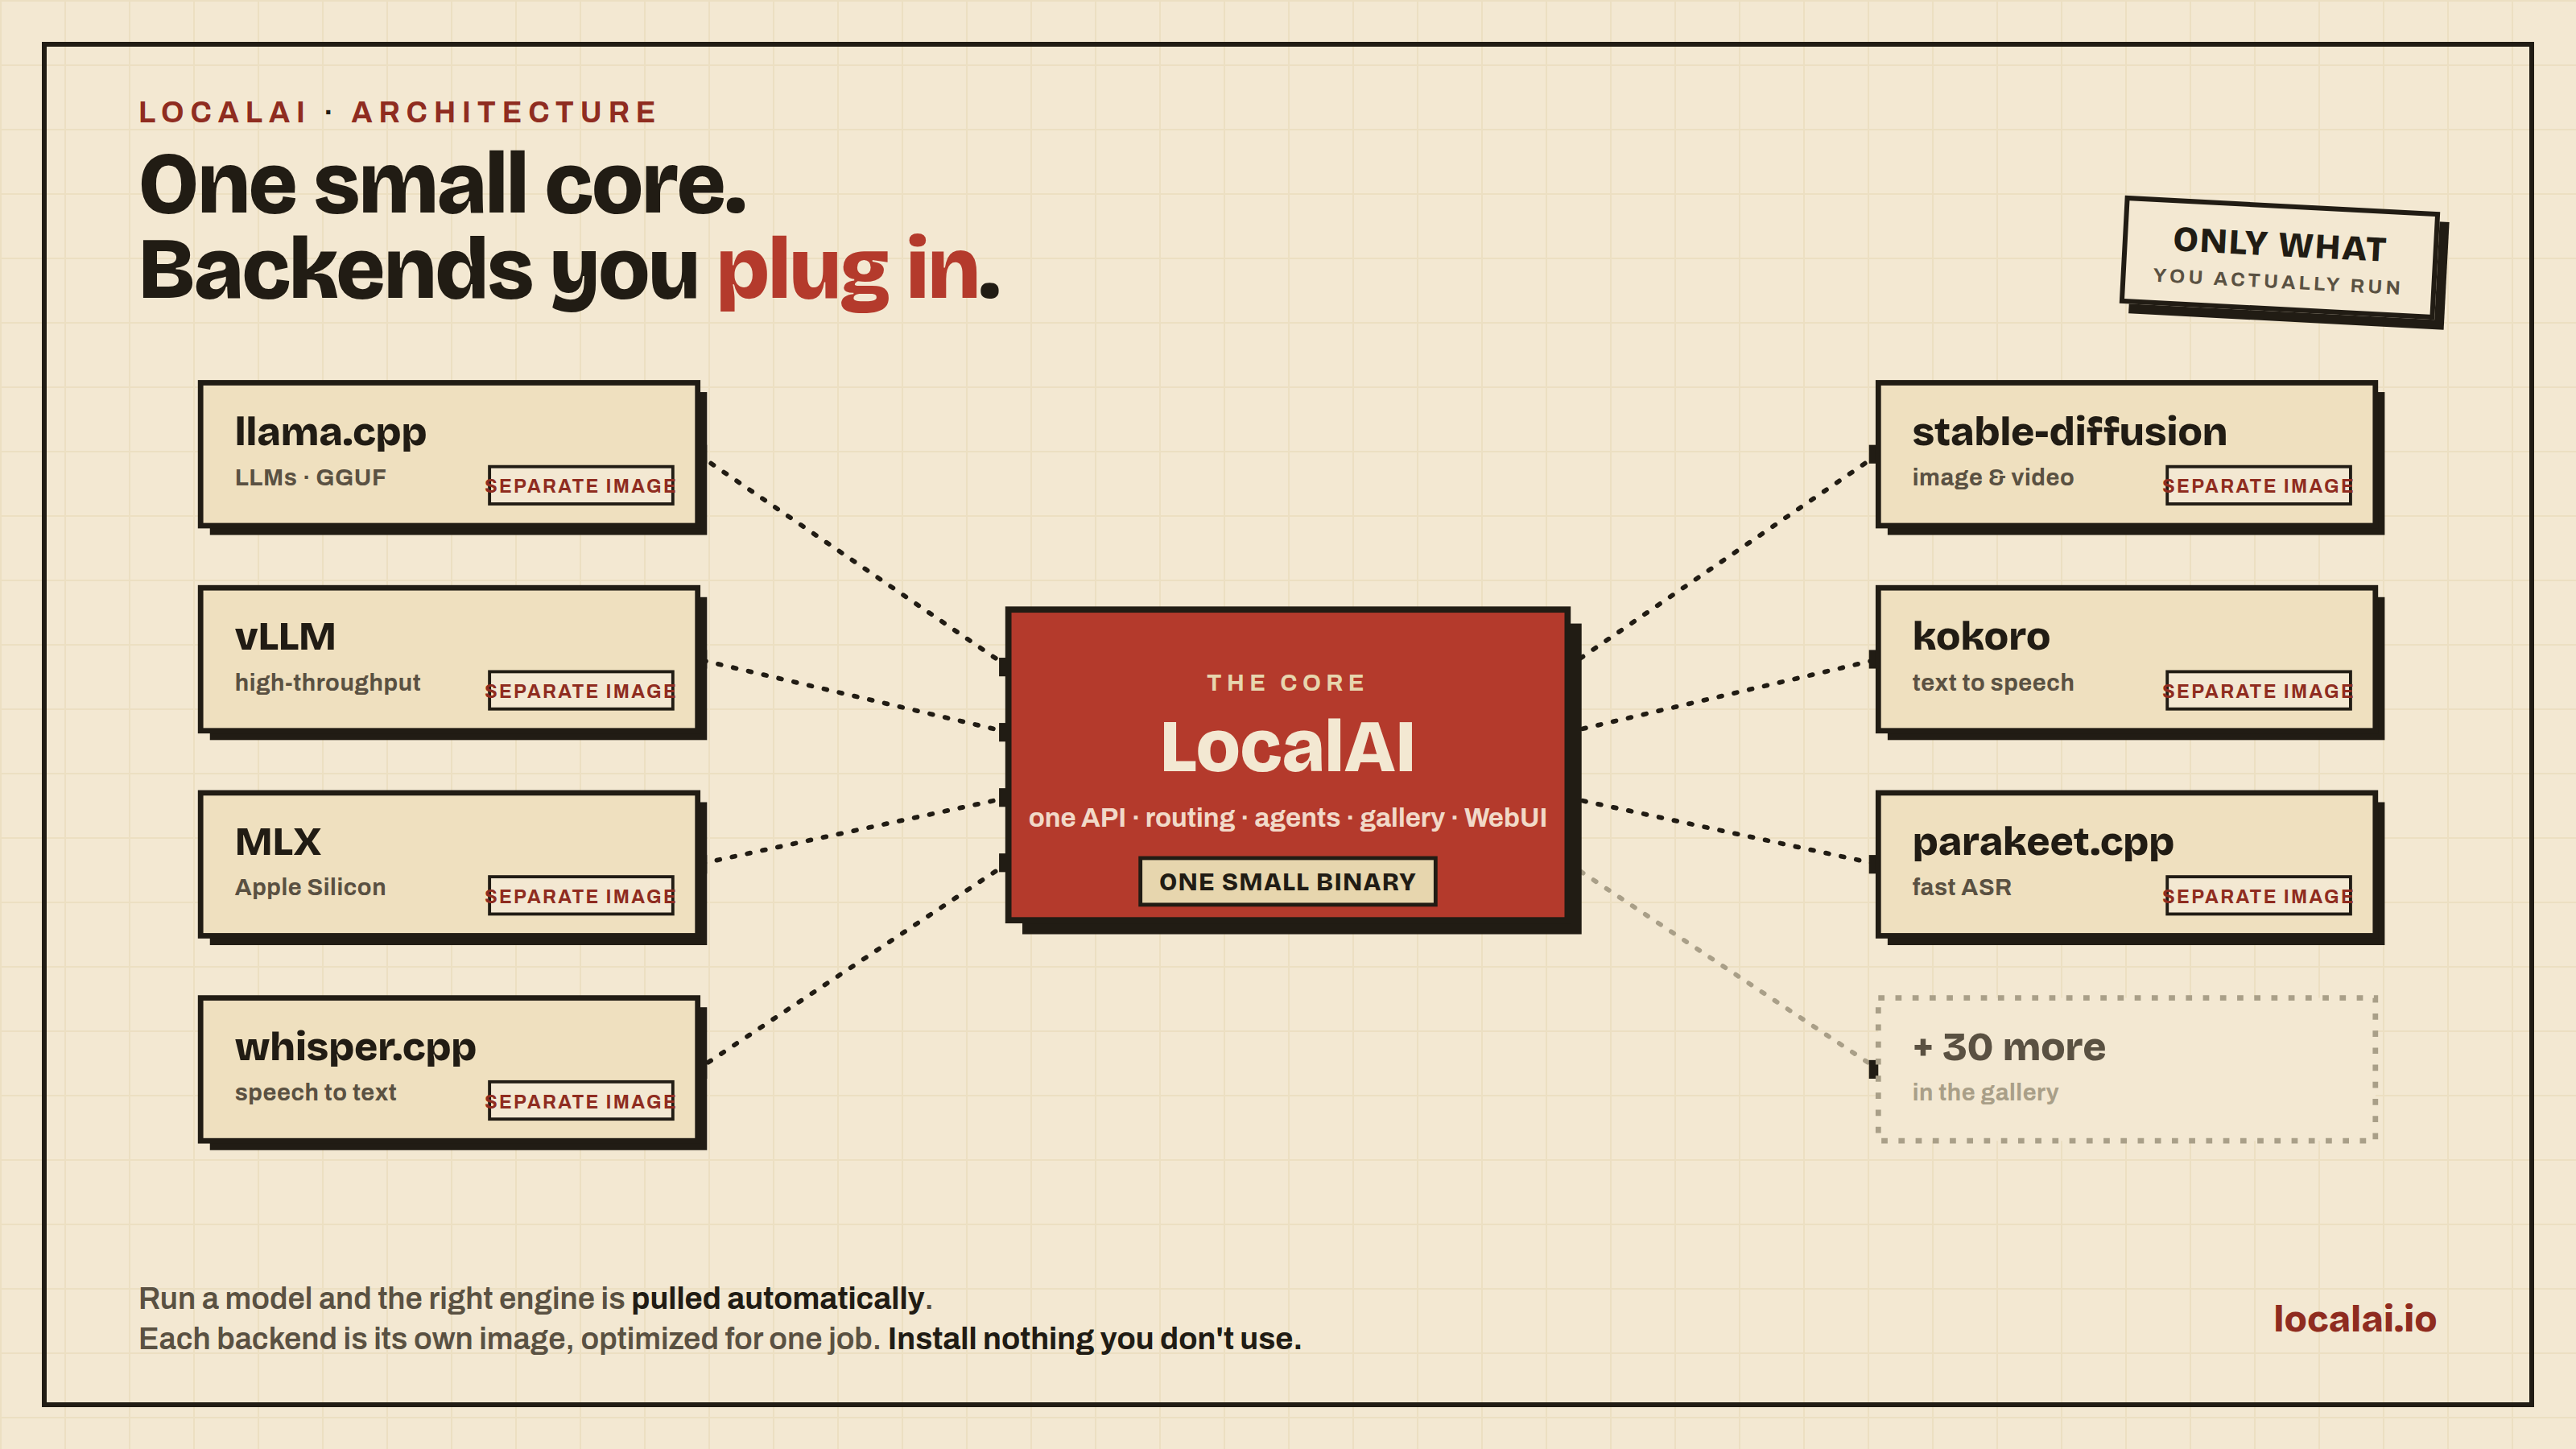
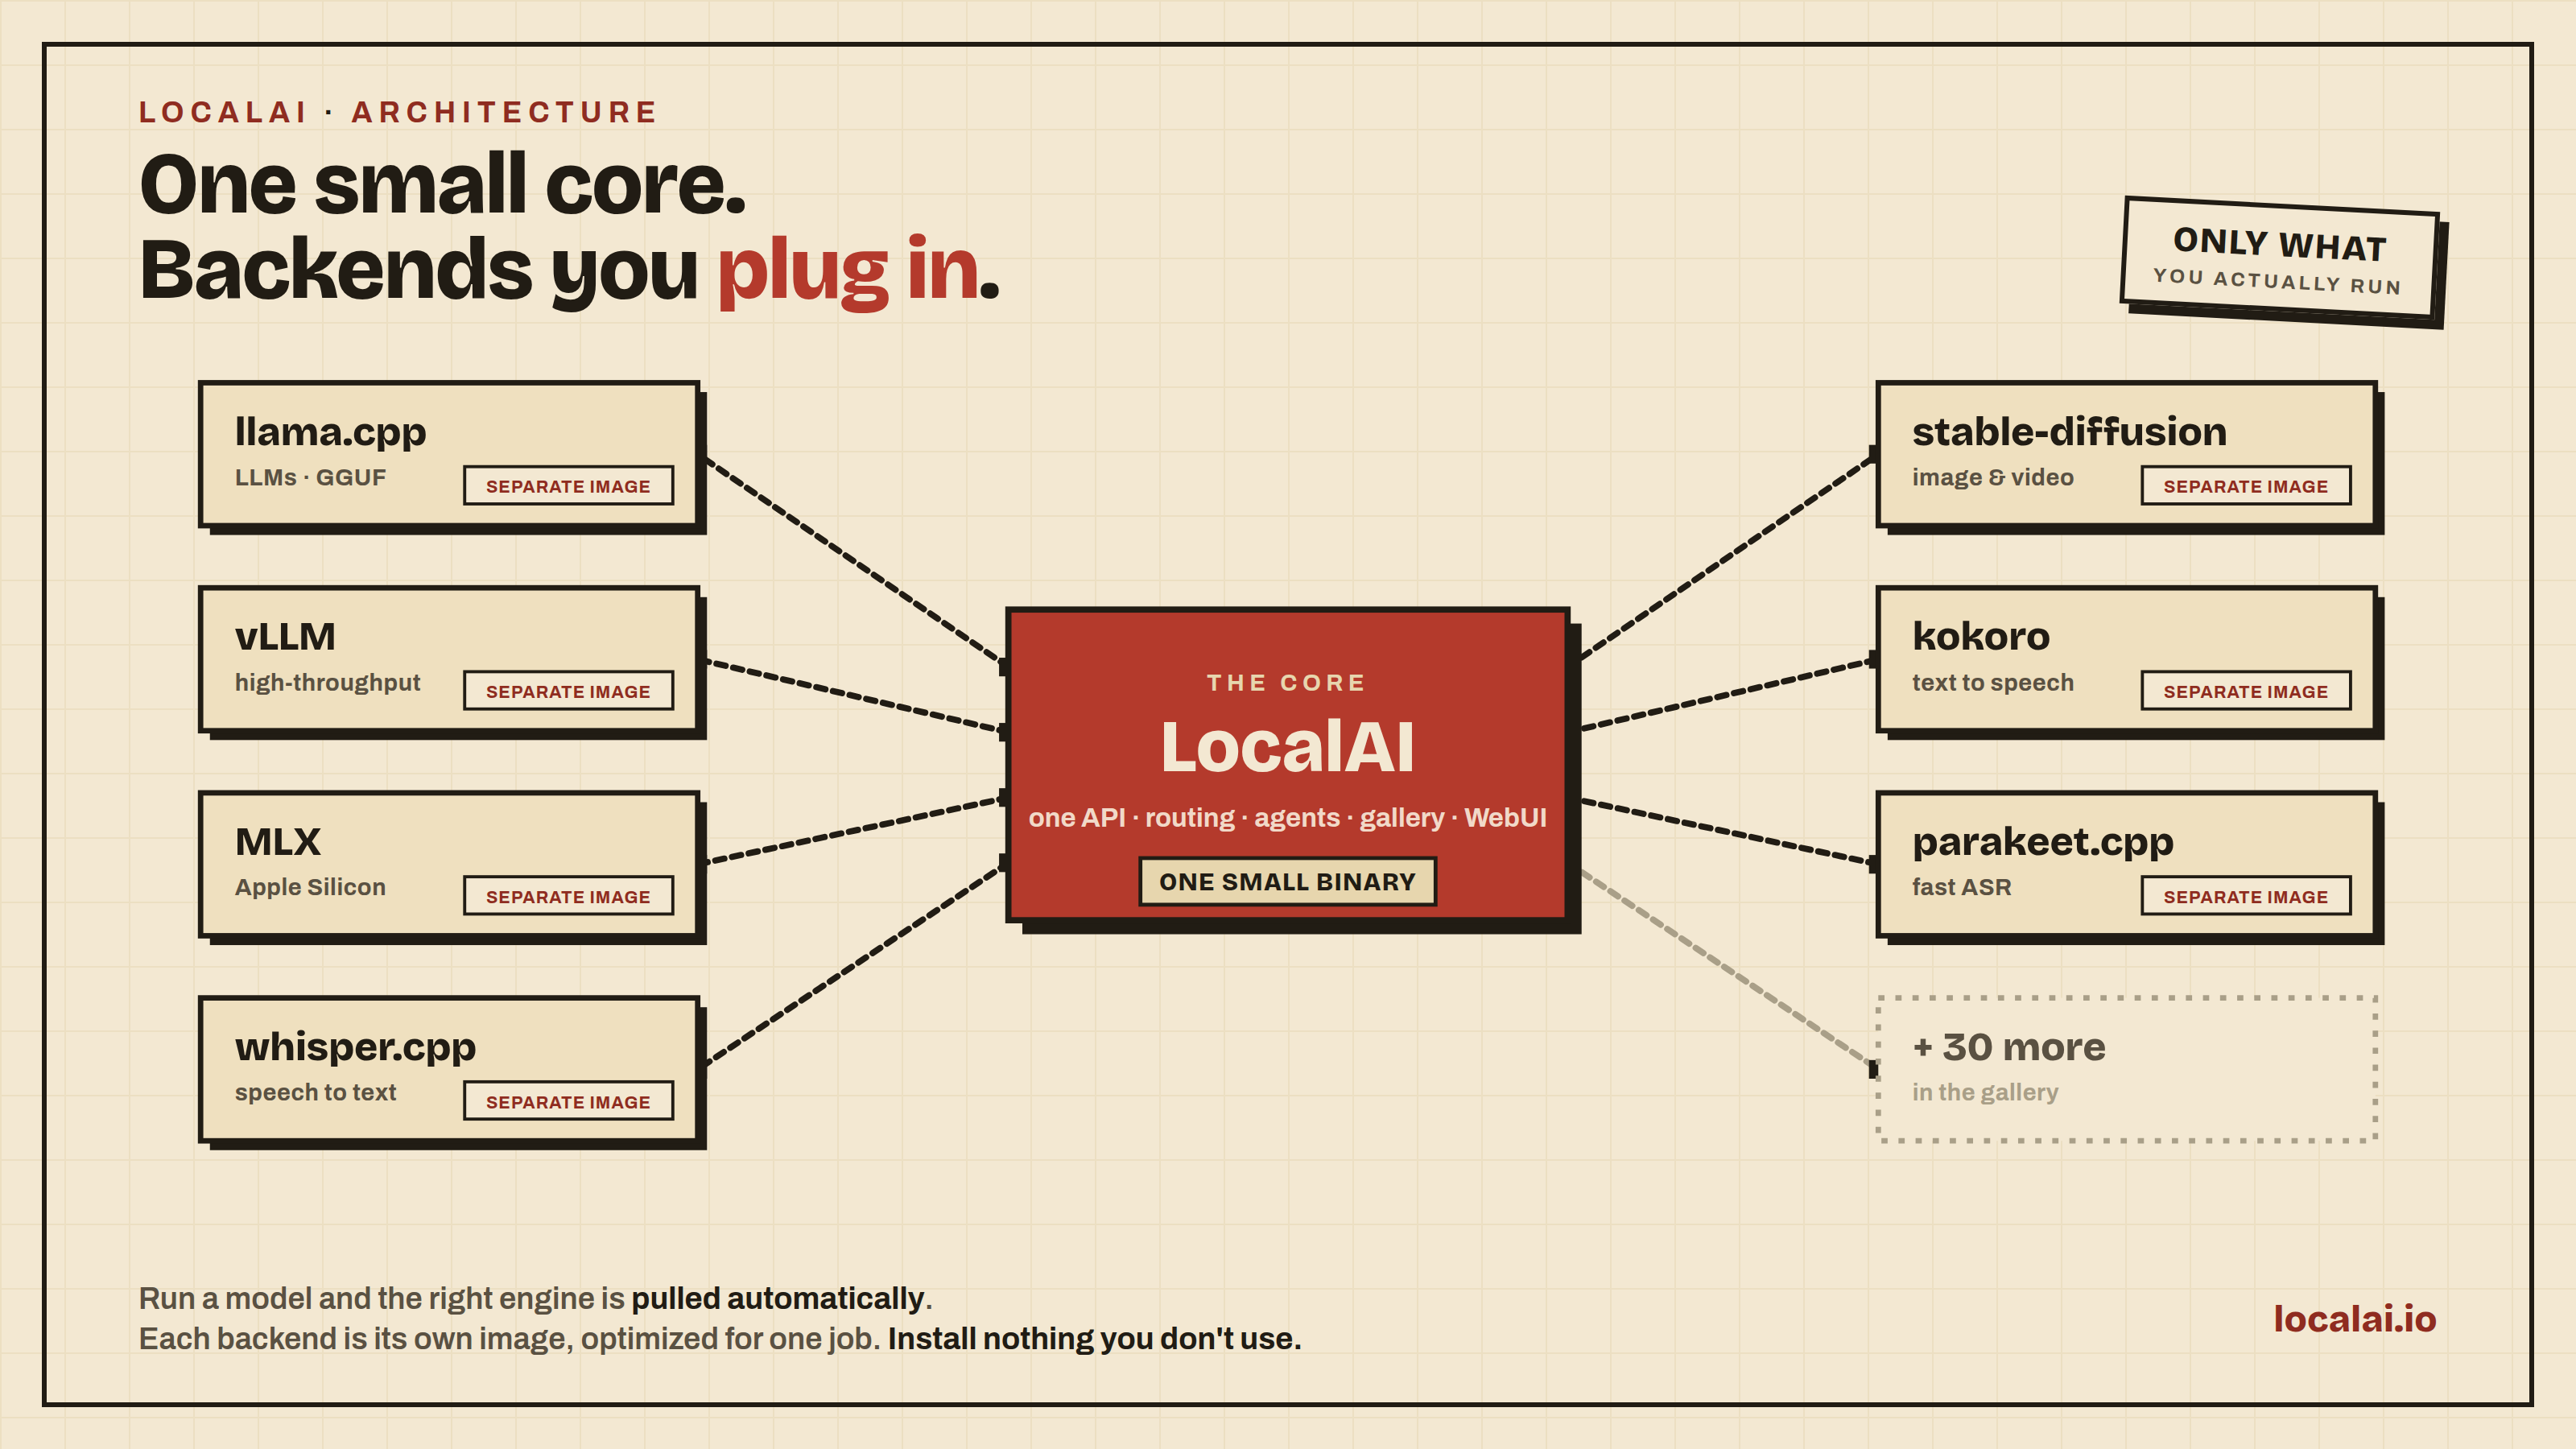
docs: fix composable-core connectors/badge and federated-vs-worker layout
- composable-core: thicken the plug-in connectors so they read clearly, and
  widen the SEPARATE IMAGE badge so its text no longer overflows the box.
- federated-vs-worker: shorten the WHOLE/SPLIT REQUEST pills to fit, and
  replace the tangled node-to-node activation arrows with a clean fan-out
  (request split across all sharded nodes), mirroring the federated panel.

Assisted-by: Claude:claude-opus-4-8 [Claude Code]

diff --git a/docs/static/images/diagrams/federated-vs-worker.html b/docs/static/images/diagrams/federated-vs-worker.html
@@ -91,7 +91,7 @@ function pill(x,y,w,s,col){
 const LX=20, LW=680, PY=8, PH=544;
 svg.appendChild(el("rect",{x:LX,y:PY,width:LW,height:PH,fill:"none",stroke:COLD,"stroke-width":2.5,"stroke-dasharray":"2 8"}));
 txt(LX+18,PY+34,"FEDERATED",{f:"Bricolage Grotesque",w:800,sz:26,fill:COLDD});
-pill(LX+LW-208,PY+12,190,"WHOLE REQUEST · ROUND-ROBIN",COLDD);
+pill(LX+LW-176,PY+12,158,"WHOLE REQUEST",COLDD);
 
 // request in
 const LCEN=LX+LW/2;
@@ -147,7 +147,7 @@ svg.appendChild(el("line",{x1:740,y1:PY+8,x2:740,y2:PH-8,stroke:INK,"stroke-widt
 const RX=760, RW=700;
 svg.appendChild(el("rect",{x:RX,y:PY,width:RW,height:PH,fill:"none",stroke:RUST,"stroke-width":2.5,"stroke-dasharray":"2 8"}));
 txt(RX+18,PY+34,"WORKER",{f:"Bricolage Grotesque",w:800,sz:26,fill:RUSTD});
-pill(RX+RW-228,PY+12,210,"SPLIT REQUEST · MODEL SHARDED",RUSTD);
+pill(RX+RW-176,PY+12,158,"SPLIT REQUEST",RUSTD);
 
 const RCEN=RX+RW/2;
 // request in
@@ -180,20 +180,12 @@ wShards.forEach((sd,i)=>{
   txt(cc,wBaseY+24,sd.mem+" mem",{w:700,sz:13,a:"middle",ls:".04em",fill:RUSTD});
 });
 
-// request -> first node (top)
-vArrow(RCEN,PY+110,wCols[0]+wNW/2,wNodeY+ (wMaxH-wShards[0].h),RUSTD);
-
-// activations flow node -> node -> node (horizontal, between node tops)
-function actArrow(i,j){
-  const a=wCols[i], b=wCols[j];
-  const topA=wBaseY-wShards[i].h, topB=wBaseY-wShards[j].h;
-  const yA=topA+19, yB=topB+19;
-  arrow(a+wNW, yA, b, yB, RUST, "2 8");
-}
-actArrow(0,1);
-actArrow(1,2);
-// activations label
-txt(RCEN, wNodeY-10,"activations stream node → node → node",{w:700,sz:14,a:"middle",ls:".03em",fill:RUSTD});
+// request is split across the whole sharded fleet (all nodes active)
+wShards.forEach((sd,i)=>{
+  const cc=wCols[i]+wNW/2;
+  const top=wBaseY-sd.h;
+  vArrow(RCEN,PY+110,cc,top,RUSTD);
+});
 
 // caption
 txt(RCEN,PH-6,"weights sharded across all nodes",{f:"Bricolage Grotesque",w:700,sz:18,a:"middle",fill:RUSTD});

diff --git a/docs/static/images/diagrams/composable-core.html b/docs/static/images/diagrams/composable-core.html
@@ -106,7 +106,7 @@ const right = [
 // ---- connectors (drawn first, under cards) ----
 function socket(x,y){ svg.appendChild(el("rect",{x:x-6,y:y-6,width:12,height:12,fill:INK})); }
 function connector(x1,y1,x2,y2,more){
-  svg.appendChild(el("line",{x1,y1,x2,y2,stroke:more?DIM:INK,"stroke-width":3,"stroke-dasharray":"2 8","stroke-linecap":"round"}));
+  svg.appendChild(el("line",{x1,y1,x2,y2,stroke:more?DIM:INK,"stroke-width":4,"stroke-dasharray":"6 5","stroke-linecap":"round"}));
   socket(x1,y1); socket(x2,y2);
 }
 left.forEach((t,i)=>{
@@ -127,9 +127,9 @@ function tile(x,row,t){
   svg.appendChild(el("text",{x:x+22,y:y+40,"font-family":"Bricolage Grotesque","font-weight":800,"font-size":26,fill:t.more?SOFT:INK},t.n));
   svg.appendChild(el("text",{x:x+22,y:y+66,"font-family":"Archivo","font-weight":700,"font-size":15,"letter-spacing":".02em",fill:t.more?DIM:SOFT},t.s));
   if(!t.more){
-    const bw=118,bh=24,bx=x+TW-bw-16,by=y+TH-bh-14;
+    const bw=134,bh=24,bx=x+TW-bw-16,by=y+TH-bh-14;
     svg.appendChild(el("rect",{x:bx,y:by,width:bw,height:bh,fill:PAPER,stroke:INK,"stroke-width":2}));
-    svg.appendChild(el("text",{x:bx+bw/2,y:by+17,"text-anchor":"middle","font-family":"Archivo","font-weight":700,"font-size":12,"letter-spacing":".1em",fill:RUSTD},"SEPARATE IMAGE"));
+    svg.appendChild(el("text",{x:bx+bw/2,y:by+17,"text-anchor":"middle","font-family":"Archivo","font-weight":700,"font-size":11,"letter-spacing":".05em",fill:RUSTD},"SEPARATE IMAGE"));
   }
 }
 left.forEach((t,i)=> tile(LX, rows[i], t));